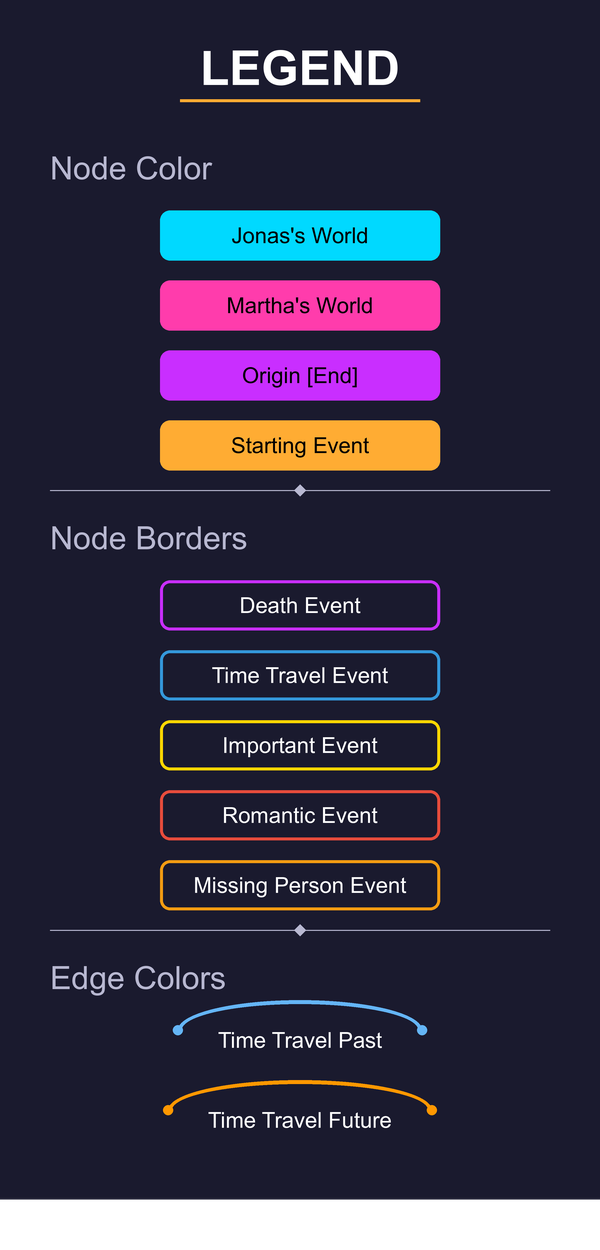
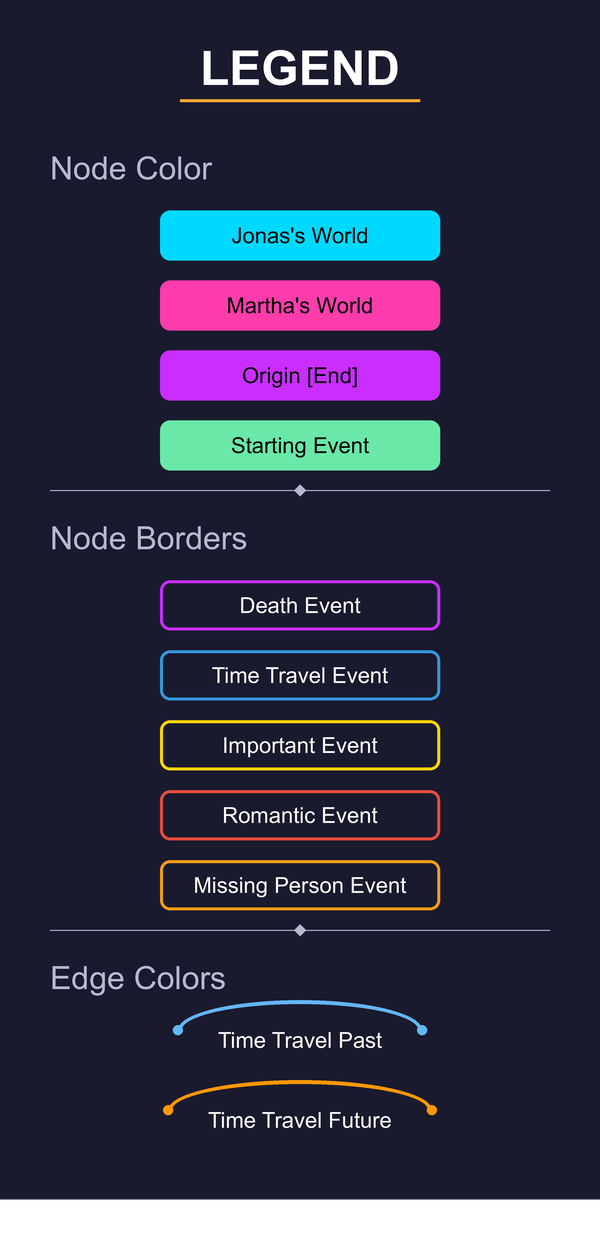
new legend

Changed region(s): [[0.24, 0.312, 0.75, 0.3744]]

diff --git a/css/style.css b/css/style.css
@@ -19,7 +19,7 @@
     --death-color: #c92eff;          /* Neon violet â€“ mysterious and attention-grabbing */
 
     /* Extras */
-    --other-color: #0f0f1c;          /* Near-black with subtle warmth for depth layers */
+    --other-color: #233042;          /* Near-black with subtle warmth for depth layers */
 }
 
 * {

diff --git a/createLegend.py b/createLegend.py
@@ -10,13 +10,13 @@ def create_legend_image(width=600, filename="legend.png", upscale_factor=4):
 
     # --- Colors ---
     colors = {
-        "background": "#ffffff", #rgba(255, 255, 255, 0.08)
+        "background": "#1a1a2e",
         "text_primary": "#ffffff",
         "text_secondary": "#b8b8d1",
         "jonas_world": "#00d9ff",
         "martha_world": "#ff3cac",
         "other_character": "#c92eff",
-        "starting_event": "#ffac33",
+        "starting_event": "#69e8a8",
         "death_border": "#c92eff",
         "time_travel_border": "#3498db",
         "important_event_border": "#ffd700",
